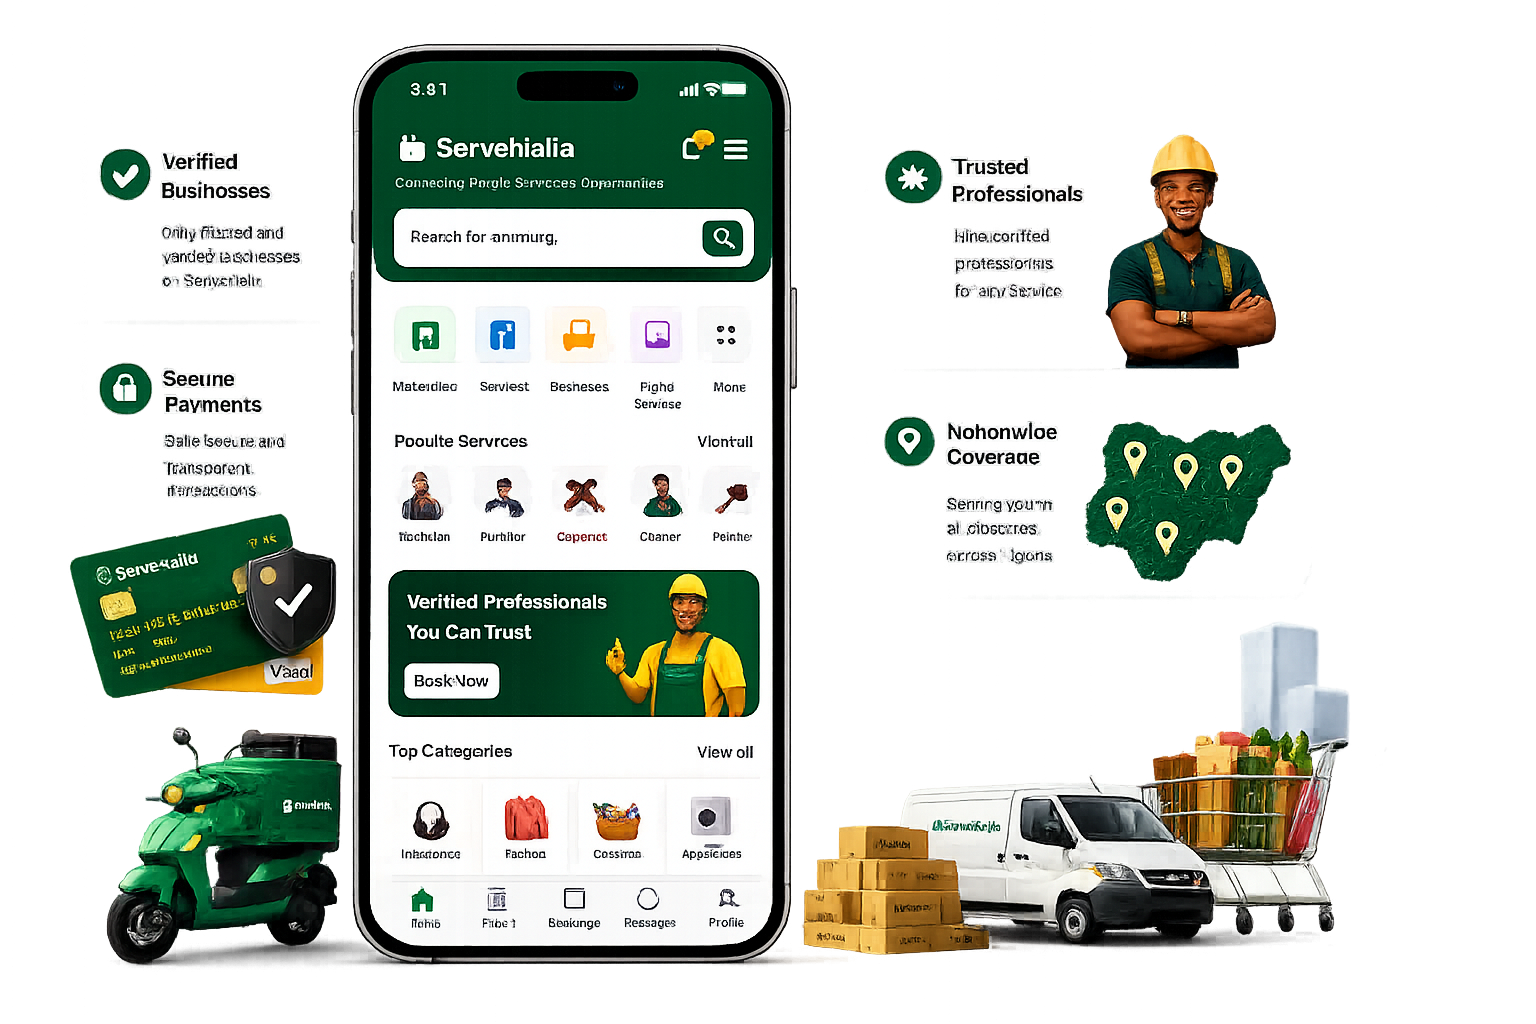
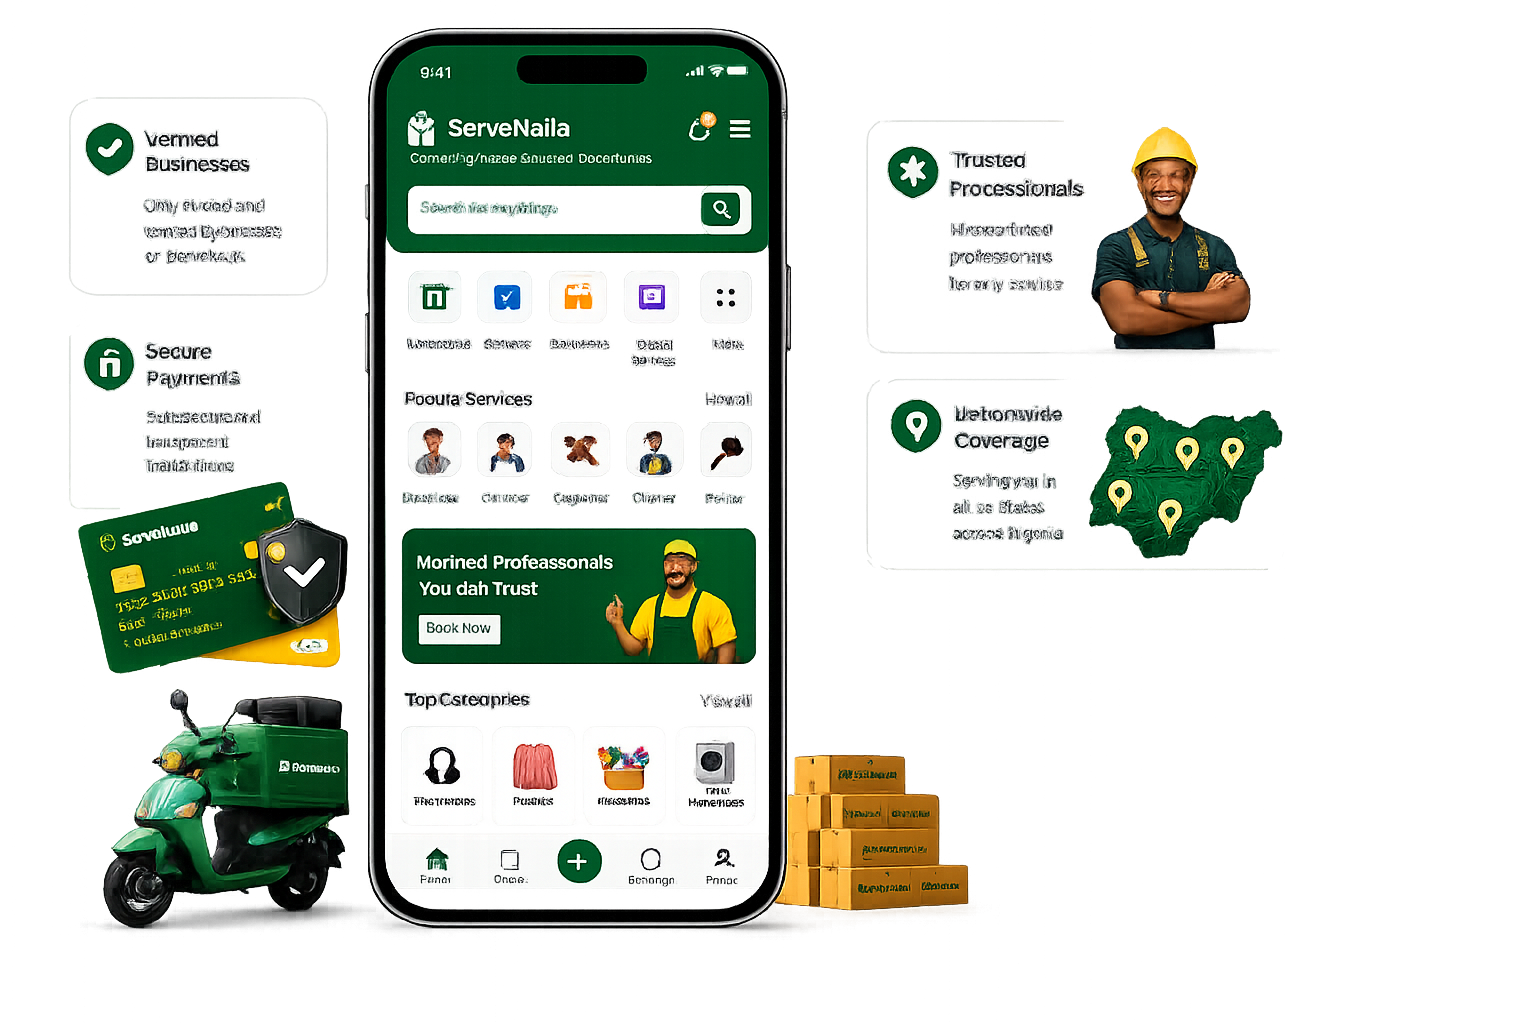
checked showroom image and changed the leaders role

Changed region(s): [[0.0312, 0.0312, 0.9062, 0.9688], [0.5625, 0.125, 0.8438, 0.5625], [0.0312, 0.0938, 0.1875, 0.2812]]

diff --git a/src/components/Footer.tsx b/src/components/Footer.tsx
@@ -10,21 +10,21 @@ const leaders = [
     role: 'Chief Executive Officer (CEO)',
     bio: 'Visionary leader with expertise in business strategy, innovation and digital transformation.',
     initials: 'JE',
-    image: ceo, // Add your image path here
+    image: ceo, 
   },
   {
     name: 'Mrs. Chioma Okafor',
-    role: 'General Managing Director (MD)',
+    role: 'General Managing Director (GMD)',
     bio: 'Seasoned professional passionate about operational excellence and business growth.',
     initials: 'CO',
-    image: gmd, // Add your image path here
+    image: gmd, 
   },
   {
     name: 'Mr. Tunde Adeyemi',
-    role: 'Chief Financial Officer (CFO)',
+    role: 'Chief Operation Officer (COO)',
     bio: 'Finance expert focused on financial strategy, governance and sustainable value creation.',
     initials: 'TA',
-    image: '/images/leaders/tunde-adeyemi.jpg', // Add your image path here
+    image: '/images/leaders/tunde-adeyemi.jpg', 
   },
 ]
 
@@ -35,7 +35,7 @@ const testimonials = [
     author: 'Adebayo T.',
     location: 'Lagos',
     initials: 'AT',
-    avatar: '/images/testimonials/adebayo.jpg', // Add your image path here
+    avatar: '/images/testimonials/adebayo.jpg', 
   },
   {
     id: 'blessing-abuja',
@@ -43,7 +43,7 @@ const testimonials = [
     author: 'Blessing E.',
     location: 'Abuja',
     initials: 'BE',
-    avatar: '/images/testimonials/blessing.jpg', // Add your image path here
+    avatar: '/images/testimonials/blessing.jpg', 
   },
   {
     id: 'chinedu-enugu',
@@ -51,7 +51,7 @@ const testimonials = [
     author: 'Chinedu M.',
     location: 'Enugu',
     initials: 'CM',
-    avatar: '/images/testimonials/chinedu.jpg', // Add your image path here
+    avatar: '/images/testimonials/chinedu.jpg', 
   },
   {
     id: 'halimat-kano',
@@ -59,7 +59,7 @@ const testimonials = [
     author: 'Halimat R.',
     location: 'Kano',
     initials: 'HR',
-    avatar: '/images/testimonials/halimat.jpg', // Add your image path here
+    avatar: '/images/testimonials/halimat.jpg', 
   },
 ]
 